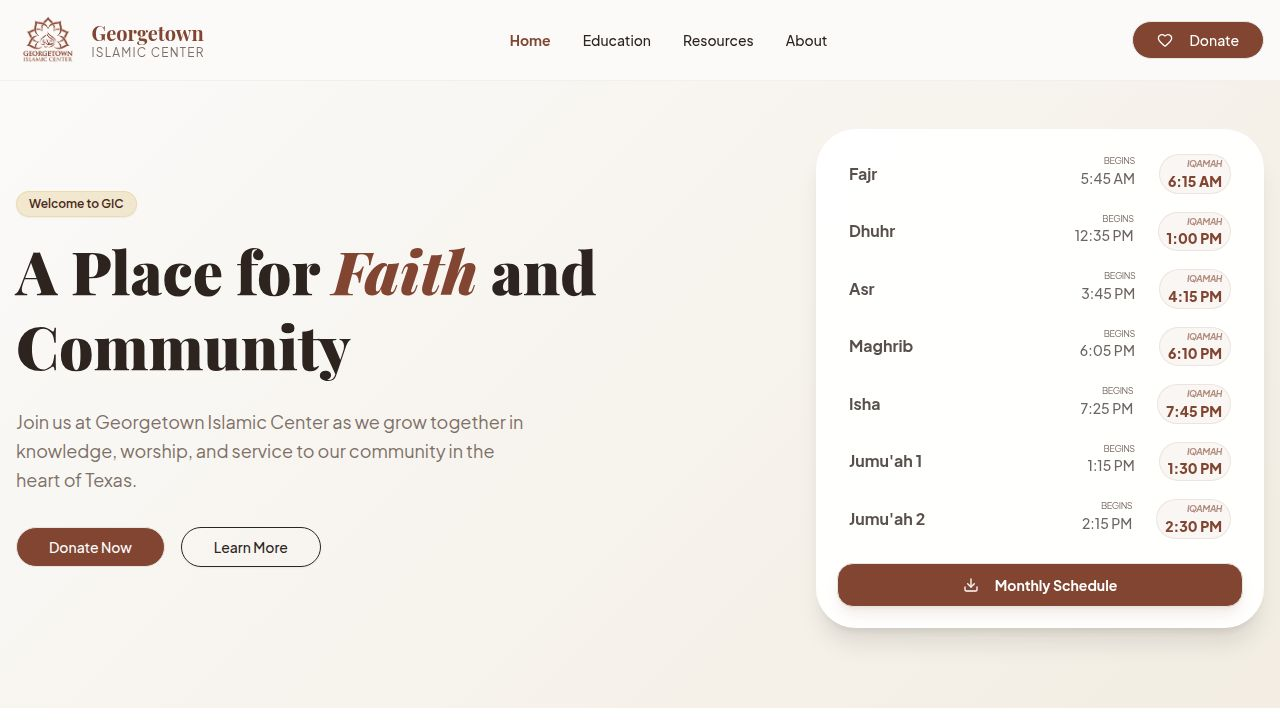
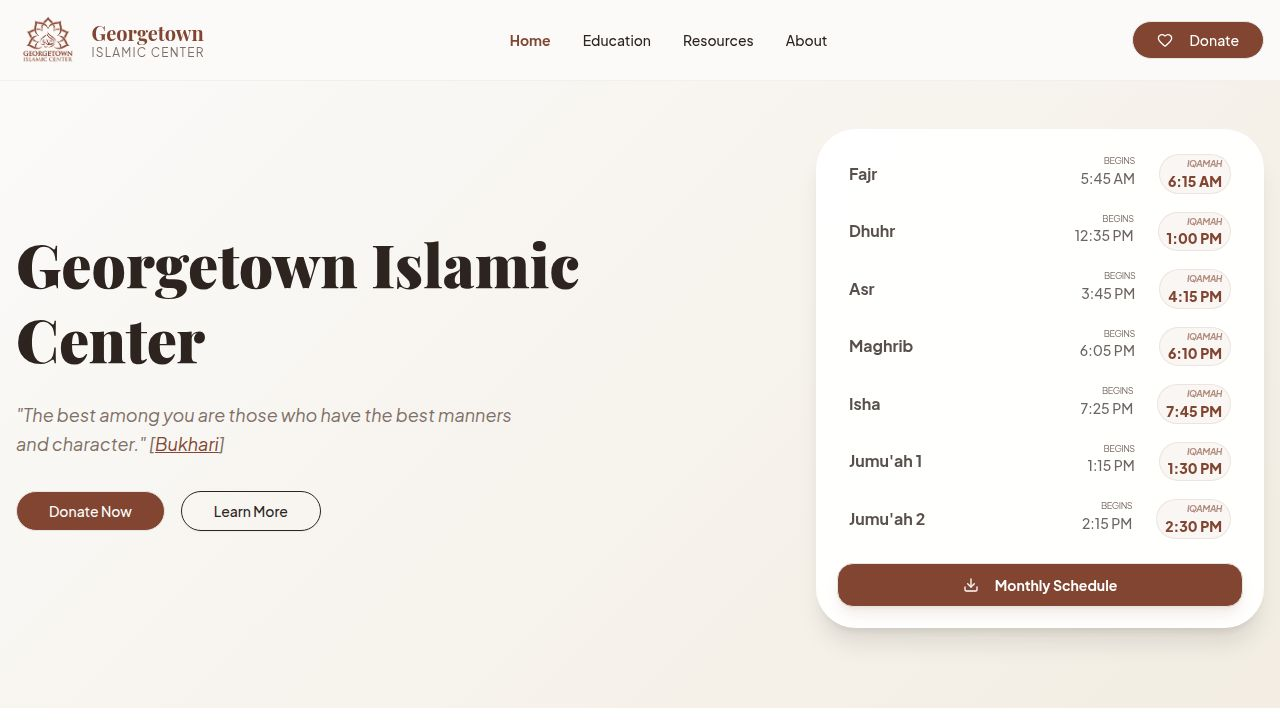
Update hero section with center name and hadith
Modify client/src/pages/Home.tsx to update the hero section's title to "Georgetown Islamic Center" and its subtitle to the specified hadith, linking the "Bukhari" reference to https://sunnah.com/bukhari:6029.

Replit-Commit-Author: Agent
Replit-Commit-Session-Id: 90dbf637-7d7b-48bd-8dee-a562e8aaeab8
Replit-Commit-Checkpoint-Type: full_checkpoint
Replit-Commit-Event-Id: 7c61d7aa-49bd-49e3-8415-0ed26da25715
Replit-Commit-Screenshot-Url: https://storage.googleapis.com/screenshot-production-us-central1/26670e8a-67b2-4db3-b8df-8cda70fd3d49/90dbf637-7d7b-48bd-8dee-a562e8aaeab8/jLXorKv
Replit-Helium-Checkpoint-Created: true

Changed region(s): [[0.0, 0.55, 0.4062, 0.7944], [0.0, 0.3361, 0.4688, 0.5194], [0.0, 0.2444, 0.125, 0.3056]]

diff --git a/client/src/pages/Home.tsx b/client/src/pages/Home.tsx
@@ -113,15 +113,11 @@ export default function Home() {
                 transition={{ duration: 0.6 }}
                 className="flex-1"
               >
-                <Badge className="mb-4 bg-accent/20 text-accent-foreground border-accent/20 px-3 py-1">
-                  Welcome to GIC
-                </Badge>
                 <h2 className="text-5xl md:text-6xl font-black mb-6 leading-tight">
-                  A Place for <span className="text-primary italic">Faith</span> and Community
+                  Georgetown Islamic Center
                 </h2>
-                <p className="text-lg text-muted-foreground mb-8 max-w-lg mx-auto lg:mx-0 leading-relaxed">
-                  Join us at Georgetown Islamic Center as we grow together in knowledge, 
-                  worship, and service to our community in the heart of Texas.
+                <p className="text-lg text-muted-foreground mb-8 max-w-lg mx-auto lg:mx-0 leading-relaxed italic">
+                  "The best among you are those who have the best manners and character." [<a href="https://sunnah.com/bukhari:6029" target="_blank" rel="noopener noreferrer" className="text-primary underline hover:text-primary/80">Bukhari</a>]
                 </p>
                 <div className="flex flex-wrap justify-center lg:justify-start gap-4">
                   <Link href="/donate">
